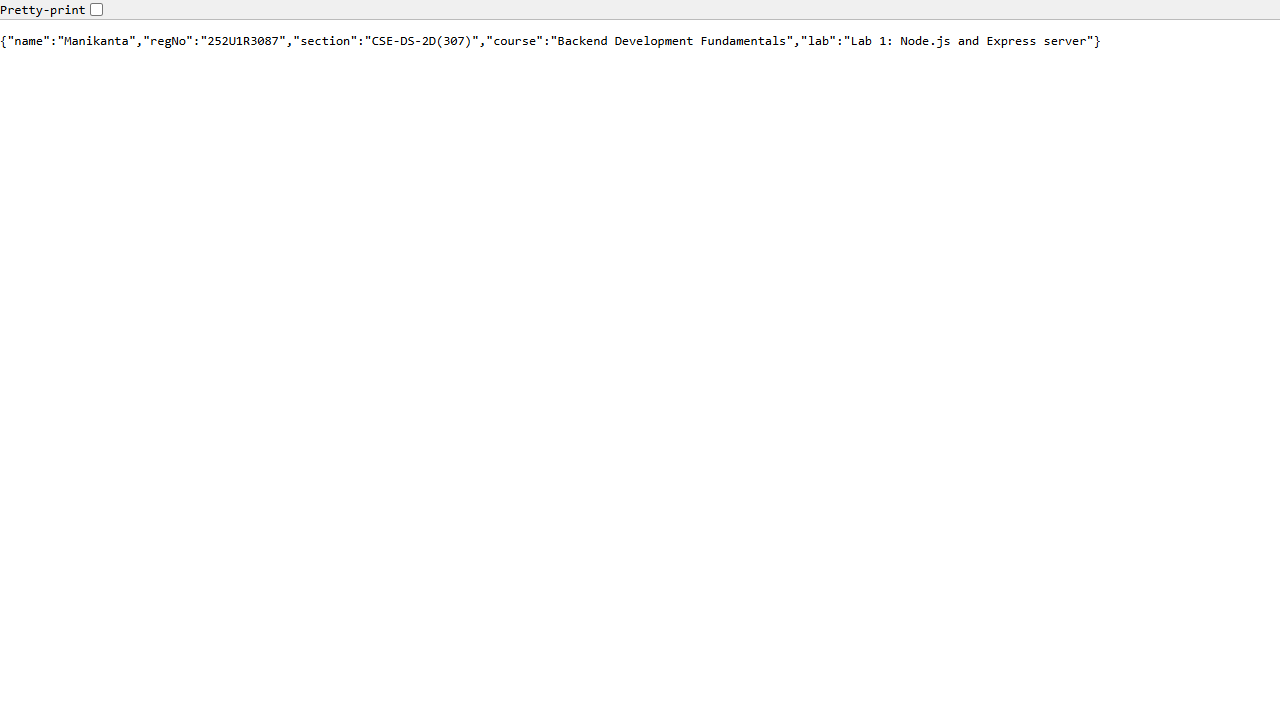
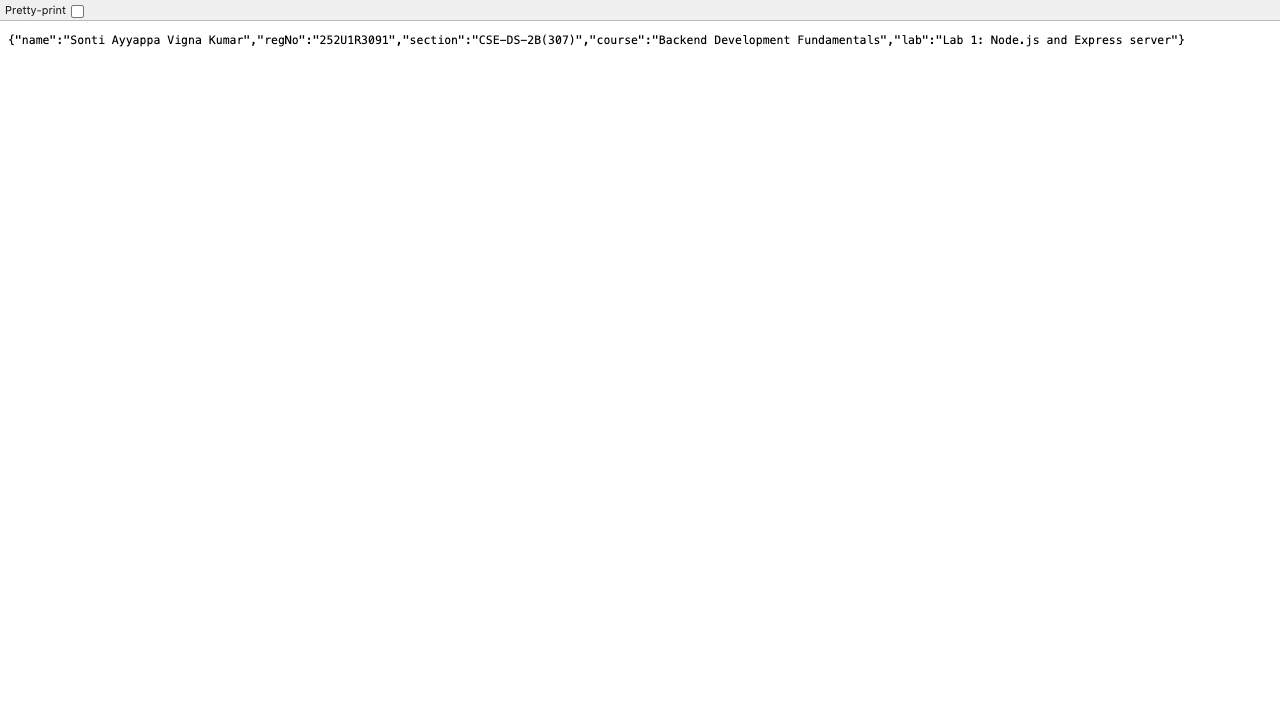
fix: update Task 3 plain HTTP server reply to 'Hello Ayyappa' and refresh screenshots

Changed region(s): [[0.0, 0.0, 0.9062, 0.0611]]

diff --git a/lab-01/http-server.js b/lab-01/http-server.js
@@ -5,7 +5,7 @@ const PORT = process.env.PORT || 3000;
 // Task 3: Plain server with http.createServer that replies "Hello" and listens on port 3000
 const server = http.createServer((req, res) => {
   res.writeHead(200, { 'Content-Type': 'text/plain' });
-  res.end('Hello');
+  res.end('Hello Ayyappa');
 });
 
 server.listen(PORT, () => {

diff --git a/lab-01/README.md b/lab-01/README.md
@@ -116,7 +116,7 @@ Each route was tested in the browser / client, with status codes logged via serv
 
 ## Screenshots of Working Endpoints
 
-### 1. Plain HTTP Server (`http.createServer`) - Replying "Hello" (Task 3)
+### 1. Plain HTTP Server (`http.createServer`) - Replying "Hello Ayyappa" (Task 3)
 ![Plain HTTP Server](screenshots/route_http_plain.png)
 
 ### 2. Express Server: GET `/` (Welcome Text - Task 5)
